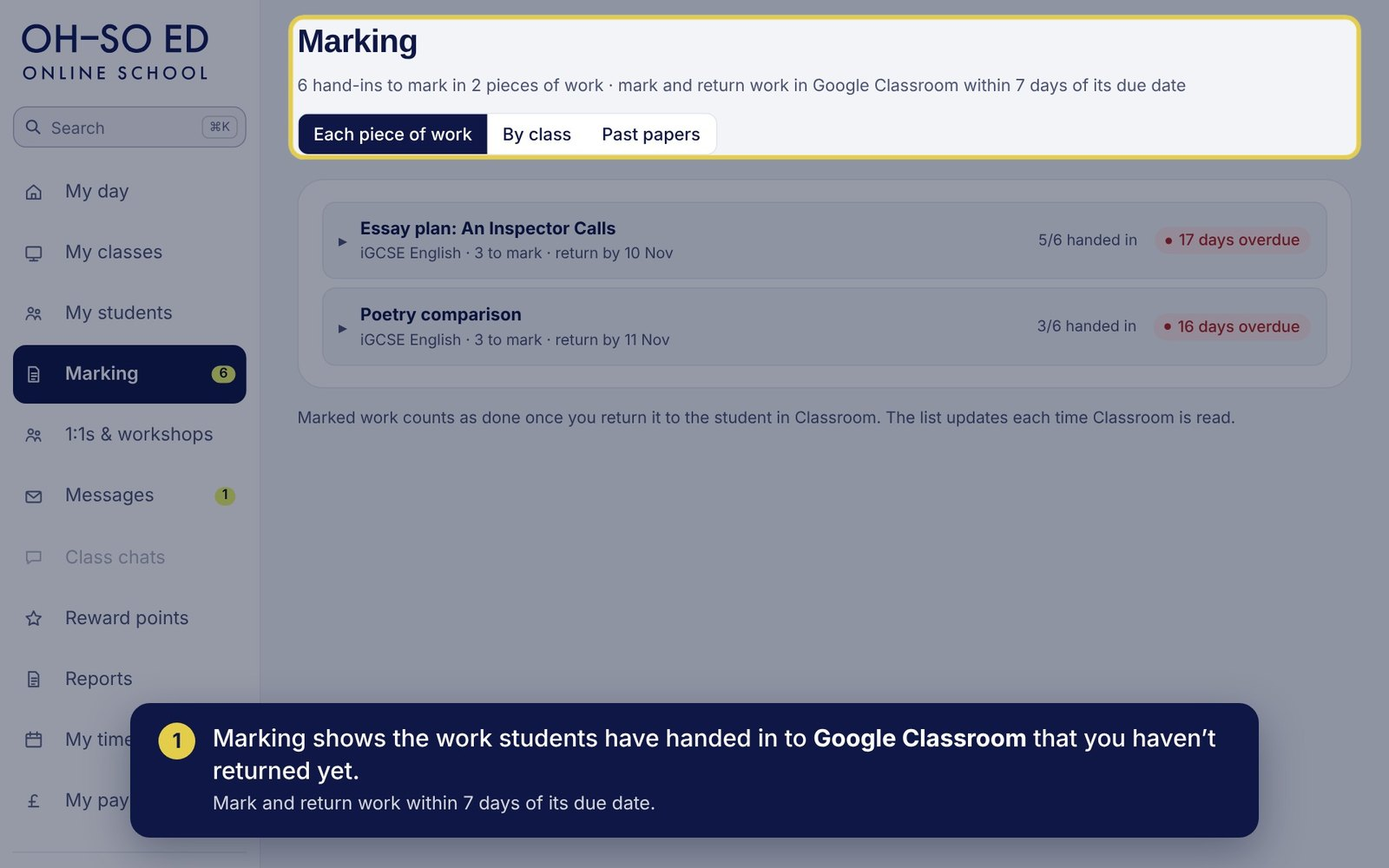
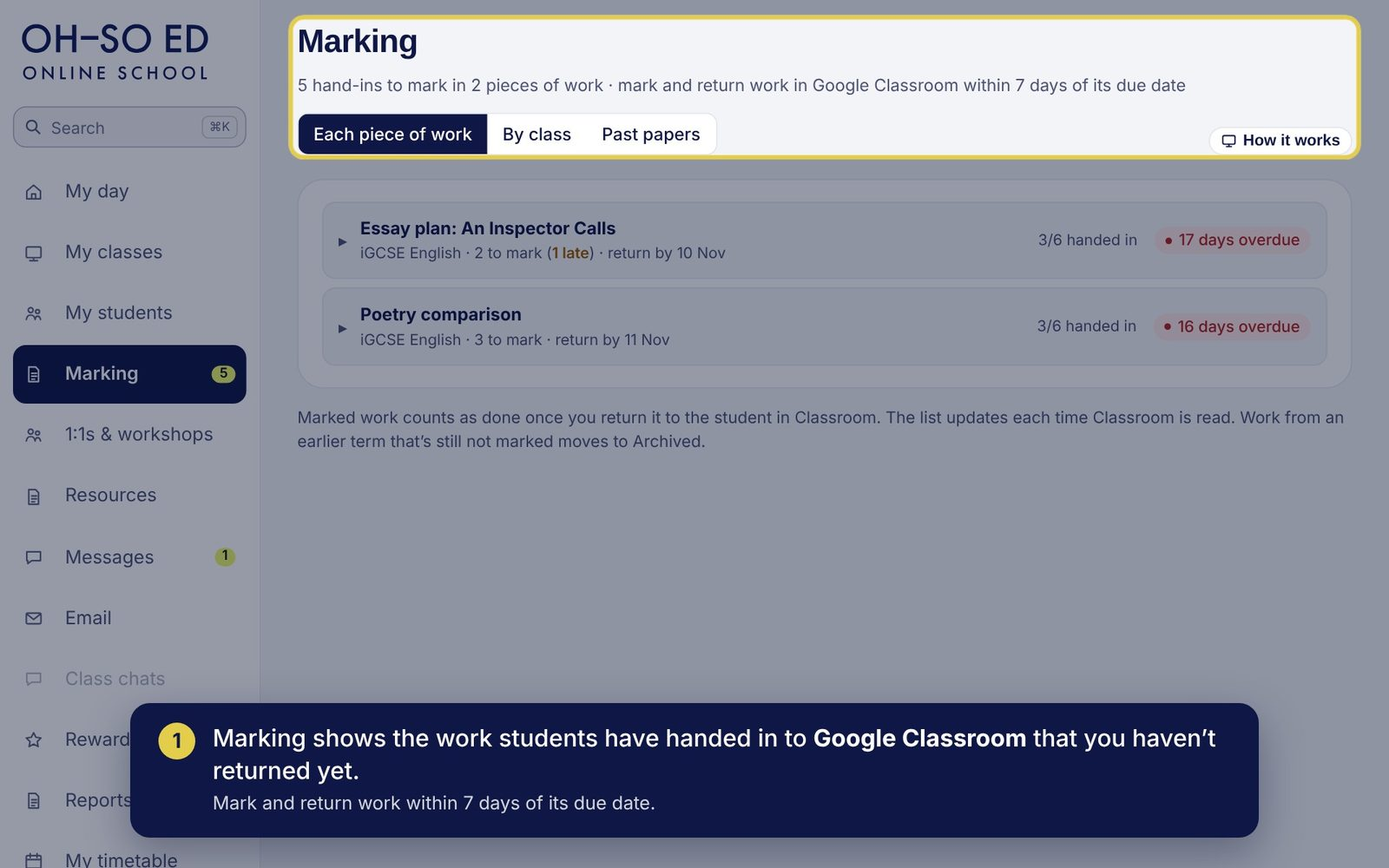
Update 520: introduction pages and How it works slides brought up to date
- /newdashboard: Messages and Email (speech bubble / envelope) for teachers and parents, the teacher's Resources (new section and screenshots), empty and sideways hand-ins in Marking, AI drafts in the teacher's own style, emails for work due, attendance and reward points
- How it works: Marking (nothing attached, photos the wrong way round), Messages and Email (also on the Email page), new Resources deck, parents' Messages (Email in the menu)

Claude-Session: https://claude.ai/code/session_019jwWYdrTturMMjiMEQw7Wv

diff --git a/src/app/(site)/newdashboard/content.ts b/src/app/(site)/newdashboard/content.ts
@@ -35,19 +35,22 @@ export const PAGES: Record<Role, Page> = {
         points: ["Search by name", "Filter to SEND, or to anyone under 85% attendance"] },
       { id: "marking", title: "Marking", shot: "marking", alt: "Marking: each piece of work handed in and waiting to be marked, with how many to mark, the return-by date and a countdown, opened to show the students who handed it in",
         text: "Everything your students have handed in that’s waiting to be marked, with a countdown to return it within 7 days of its due date.",
-        points: ["See each piece of work, most urgent first, or group them by class", "Open a piece of work to see who handed it in, who handed in late, who was sent back to redo it, and who hasn’t handed in", "Each student’s work opens straight in Google Classroom, where you mark and return it as you do now", "Not marking a piece? Resolve it and it leaves your list; unmarked work from an earlier term is archived automatically", "The menu shows how many hand-ins are waiting"] },
-      { id: "messages", title: "Messages", shot: "messages", alt: "Messages: conversations with the school office",
-        text: "Write to the school office (and, when the school switches it on, to the parents of the students you teach) in one place, and keep every conversation in a thread you can come back to.",
-        points: ["See which conversations are waiting for your reply", "An envelope or a speech bubble shows whether each message came by email or in the app", "Messages can come to your email too (your choice, in Settings)", "No personal email addresses or phone numbers are shared"] },
+        points: ["See each piece of work, most urgent first, or group them by class", "Open a piece of work to see who handed it in, who handed in late, who was sent back to redo it, and who hasn’t handed in", "Each student’s work opens straight in Google Classroom, where you mark and return it as you do now", "Handed in with nothing attached? It counts as missing, not as work to mark, and the student is emailed to hand it in again", "A photo of written work that’s the wrong way round is spotted too, and the student is asked to rotate it and hand it in again", "Not marking a piece? Resolve it and it leaves your list; unmarked work from an earlier term is archived automatically", "The menu shows how many hand-ins are waiting"] },
+      { id: "messages", title: "Messages and Email", nav: "Messages", shot: "messages", alt: "Messages: conversations with the school office and families, with a speech bubble in the menu, and Email below it with an envelope",
+        text: "Two places in the menu, each with its own count: Messages (the speech bubble) for conversations in the app with the office and, when the school switches it on, the parents of the students you teach; Email (the envelope) for emails between you and the school’s mailbox.",
+        points: ["Every conversation is kept in a thread you can come back to", "Unread ones are marked and sort to the top", "Messages can come to your email too (your choice, in Notifications)", "No personal email addresses or phone numbers are shared"] },
       { id: "reports", title: "Reports", shot: "reports", alt: "Reports to write: each class with how many comments are written, and a Write button",
         text: "The progress report comments, class by class, with how many you’ve written and when to submit them.",
-        points: ["Progress comes from Classroom marks; choose Effort (and, for GCSE, working and predicted grades)", "Each comment is 100–200 words (a count shows under it); Draft with AI writes a first draft that length from the student’s marks, attendance and earlier reports, for you to edit", "Write and save drafts any time; submit in the last week of term, once the assessment is marked (or say why there isn’t one)", "The office approves and publishes them to families"] },
+        points: ["Progress comes from Classroom marks; choose Effort (and, for GCSE, working and predicted grades)", "Each comment is 100–200 words (a count shows under it); Draft with AI writes a first draft that length from the student’s marks, attendance and earlier reports, in your own style for that subject (learnt from your earlier comments), for you to edit", "Write and save drafts any time; submit in the last week of term, once the assessment is marked (or say why there isn’t one)", "The office approves and publishes them to families"] },
       { id: "timetable", title: "My timetable", nav: "Timetable", shot: "timetable", alt: "My timetable: your lessons for the week by day and time",
         text: "Your week at a glance, with every lesson coming up for the next three weeks.",
         points: ["Coming up: your lessons for the next three weeks, each with Reschedule", "Lessons, 1:1s and workshops all go into your own calendar app too (Calendar sync)"] },
       { id: "ones", title: "1:1s and workshops", nav: "1:1s", shot: "ones", alt: "1:1s and workshops: booked 1:1s, your workshops, the hours parents can book you, and a form to suggest a workshop with suggested dates checked for clashes",
         text: "Your booked 1:1s and workshops, the hours parents can book you for 1:1s, and your ideas for new workshops.",
         points: ["Set the hours parents can book you for 1:1s; each 1:1 has its own Meet link in your Google Calendar and is logged as taught from Meet", "Suggest a workshop: a title, the subject, who it’s for, an overview and your slides (you can add them later)", "Suggest up to 3 dates: each is checked as you pick it, and warns you if you’re teaching then or if students at that level have a lesson", "Workshops are mostly for new families, so holidays, weekends and after school work well", "See what the office thinks, and when your idea is set up as a workshop"] },
+      { id: "resources", title: "Resources", shot: "resources", alt: "Resources: websites, things to watch and tips for your subjects, with a form to suggest a resource to the office",
+        text: "The ideas for learning at home that parents and students see, your own subjects first. Suggest your favourites and the office adds them for families.",
+        points: ["Suggest a website, something to watch or listen to, a book, or a tip with no link", "See when the office has added it, with any note from them", "Every subject has its own Resources link to share with a parent"] },
       { id: "change", title: "Reschedule a lesson", nav: "Reschedule", shot: "change", alt: "Reschedule a lesson: choose to move it or cancel it, pick a new date and time from the free times, give a reason and send it to the office",
         text: "If you can’t teach a lesson, press Reschedule (on My timetable or the lesson itself) to ask the office to move it or cancel it.",
         points: ["Choose a new date and time from a list of times that are free", "Free means no clash with your other lessons, 1:1s or workshops, any lesson in the same level group (KS3, Pre-GCSE or GCSE), or the students’ other lessons", "The office approves it, and the class’s families and students are emailed the change automatically", "The new lesson goes into everyone’s timetable and calendar, with its reminders, attendance and pay"] },
@@ -81,19 +84,19 @@ export const PAGES: Record<Role, Page> = {
         points: ["This week: every lesson for each child, day by day (and next week’s once this week is done)", "Your next payment and when it’s taken", "Each child’s classes, teachers and attendance this term"] },
       { id: "attendance", title: "Attendance", shot: "attendance", alt: "Attendance: each lesson for each child marked present, late, left early or absent",
         text: "Every lesson for each child: present, late, left early or absent, taken from the lesson’s Google Meet.",
-        points: ["Report an absence in advance; the teacher sees it, and it doesn’t count against attendance", "Approved absences are shown separately"] },
+        points: ["Report an absence in advance; the teacher sees it, and it doesn’t count against attendance", "Approved absences are shown separately", "We can also email you each week with how each child’s lessons went"] },
       { id: "assignments", title: "Assignments", shot: "assignments", alt: "Assignments: work set in each child’s classes, with due, overdue and submitted work and marks",
         text: "The work set in your children’s classes in Google Classroom: what’s due, what’s overdue, and what’s been handed in and marked.",
-        points: ["Switch between children", "Open a piece of work to see the teacher’s instructions and what’s attached, without needing your child’s Google account", "Marks show as soon as the teacher returns the work in Classroom; work sent back to redo is marked as such"] },
+        points: ["Switch between children", "Open a piece of work to see the teacher’s instructions and what’s attached, without needing your child’s Google account", "Marks show as soon as the teacher returns the work in Classroom; work sent back to redo is marked as such", "We can email you when work is due and if it’s overdue"] },
       { id: "payments", title: "Payments", shot: "payments", alt: "Payments: paid this year, still to pay, and each course’s termly payments",
         text: "What you’ve paid this year and what’s still to pay, with each course’s termly payments: paid in green, due in grey and late in red, each with its date.",
         points: ["Each course’s total for the whole course, including the second year of a 2-year course", "A payment history with each payment and its receipt", "Anything overdue is shown at the top, with what to do", "Swap or cancel a course from here"] },
       { id: "reports", title: "Reports", alt: "",
         text: "Each child’s termly progress reports from their teachers, kept together. We’ll email you when a new report is ready.",
         points: [] },
-      { id: "messages", title: "Messages", shot: "messages", alt: "Messages: start a conversation with the school office about one of your children",
-        text: "Write to us about any of your children and keep the whole conversation in one place.",
-        points: ["Our messages come to your email too, so you won’t miss them", "No need to search your inbox for old emails"] },
+      { id: "messages", title: "Messages and Email", nav: "Messages", shot: "messages", alt: "Messages: start a conversation with the school office about one of your children",
+        text: "Messages (the speech bubble) is where you write to us about any of your children and keep the whole conversation in one place. Email (the envelope) keeps every email we’ve sent you: reminders, work due, attendance, reward points and reports.",
+        points: ["Our messages come to your email too, so you won’t miss them", "No need to search your inbox for old emails", "Resources: ideas from the teachers for learning at home, for your children’s subjects"] },
       { id: "book", title: "Book a 1:1", shot: "book", alt: "Book a 1:1: choose a subject and teacher, then a time in the next two weeks",
         text: "Book a one-to-one lesson with your child’s teacher: choose the subject, then a time that suits you.",
         points: ["See your booked and past 1:1s", "Workshops are listed on the Workshops page"] },
@@ -126,13 +129,13 @@ export const PAGES: Record<Role, Page> = {
         points: [] },
       { id: "class", title: "Your classes", shot: "class", alt: "A class page: upcoming lessons, work with marks, your attendance and your classmates",
         text: "Each class has its own page: the lessons coming up, the work set in Google Classroom with your marks, your attendance and your classmates.",
-        points: ["Open a piece of work to go straight to it in Google Classroom"] },
+        points: ["Open a piece of work to go straight to it in Google Classroom", "If you hand in work with nothing attached, or a photo that’s the wrong way round, we’ll email you to hand it in again"] },
       { id: "chat", title: "Chat", shot: "chat", alt: "Chat: class chats organised into threads, and private chats with classmates",
         text: "A chat for each of your classes, organised into threads, e.g. “Quiz on Thursday”, so questions are easy to find.",
         points: ["Chat privately with classmates, if your parent has said yes", "Teachers and the office can see every chat, and you can report anything that worries you"] },
       { id: "rewards", title: "Rewards", shot: "rewards", alt: "Rewards: the school leaderboard and your points with the reason for each",
         text: "Your reward points this term and why your teachers gave them, plus the school leaderboard.",
-        points: ["The top 3 in the whole school win a prize at the end of each term"] },
+        points: ["The top 3 in the whole school win a prize at the end of each term", "You can get an email each time a teacher gives you points"] },
       { id: "more", title: "Messages, resources and your calendar", shot: "calendar", alt: "Calendar sync: add your lessons to your own calendar app with the Join link",
         text: "Messages from the school office, ideas from your teachers for learning alongside your lessons, and your lessons in your own calendar app with the Join link.",
         points: ["Works with Google Calendar, Apple Calendar and Outlook"] },

diff --git a/src/app/admin/guides.ts b/src/app/admin/guides.ts
@@ -22,12 +22,13 @@ export const DRIVE_SCHOOL_SLIDES = DRIVE_SCHOOL_ALT.map((alt, n) => ({ src: `/gu
 const deck = (name: string, alt: string[]) => alt.map((a, n) => ({ src: `/guides/${name}/${String(n + 1).padStart(2, "0")}.jpg`, alt: a }));
 export const TEACHER_GUIDES = {
   myday: { title: "My day: how it works", slides: deck("myday", ["My day: Everything for today’s teaching on one page", "Your next lesson is at the top, with a countdown. When it’s nearly time, a Join button opens the lesson’s Google Meet.", "Lesson slides opens the slides for that lesson, found by name in the class’s slides folder.", "The bell turns lesson alerts on this computer on or off. The cog next to it opens your notification settings.", "Today lists all of today’s lessons. Change asks the office to move or cancel one.", "Messages from the office (and families, when it’s switched on) show here. New message starts one.", "Reward points: give a student 1–10 points for great work, right from My day.", "When a report round is open, Reports shows how many you have left to write.", "The menu on the left takes you to every page. Hide it with the arrow at the bottom; My day then sits in the top right corner."]) },
-  marking: { title: "Marking: how it works", slides: deck("marking", ["Marking: Work handed in through Google Classroom, waiting for you", "Marking shows the work students have handed in to Google Classroom that you haven’t returned yet.", "See it by piece of work, by class, or the past papers your classes have done.", "Each piece shows the class, how many are to mark, how many have handed in, and the date to return it by.", "Mark it in Classroom as usual and press Return. Returned work drops off this list.", "Your marks also help your reports: the average of returned work suggests each student’s Progress band."]) },
-  messages: { title: "Messages: how they work", slides: deck("messages", ["Messages: Talk to the office, and to your students’ parents", "Press New message to start a conversation.", "Choose who it’s to: someone at the school, or everyone in the office at once.", "Use All, Unread, School and Families to filter your conversations.", "In Settings → Notifications, Send my messages to my email too emails you each new message.", "Families never see your email address, and you never see theirs."]) },
+  marking: { title: "Marking: how it works", slides: deck("marking", ["Marking: Work handed in through Google Classroom, waiting for you","Marking shows the work students have handed in to Google Classroom that you haven’t returned yet.","See it by piece of work, by class, or the past papers your classes have done.","Each piece shows the class, how many are to mark, how many have handed in, and the date to return it by.","Mark it in Classroom as usual and press Return. Returned work drops off this list.","Handed in with nothing attached? It counts as missing, not as work to mark. The student is emailed to hand it in again.","A photo of written work that’s sideways or upside down is spotted too. The student is asked to turn it and hand it in again.","Your marks also help your reports: the average of returned work suggests each student’s Progress band."]) },
+  messages: { title: "Messages and Email: how they work", slides: deck("messages", ["Messages and Email: Talk to the office, and to your students’ parents","Messages (the speech bubble) are conversations in the app. Email (the envelope) is for emails with the school’s mailbox. Each has its own count.","Press New message to start a conversation.","Choose who it’s to: the office, or a family.","Use All, Unread, Office and Families to filter your conversations. Unread ones sort to the top.","In Settings → Notifications, Send my messages to my email too emails you each new message.","Families never see your email address, and you never see theirs."]) },
   timetable: { title: "My timetable: moving or cancelling a lesson", slides: deck("timetable", ["My timetable: Your week, and how to move or cancel a lesson", "Your weekly timetable: every class, its level and how many students.", "Coming up lists your lessons for the next three weeks.", "Choose Move it to another time or Cancel it.", "Pick a new time from the list. You’re only offered times that don’t clash.", "Add a short reason and send it. The office approves it.", "Your calendar, My day and the families’ dashboards all update by themselves once it’s approved."]) },
   points: { title: "Reward points: how they work", slides: deck("points", ["Reward points: Say well done with 1 to 10 points", "Your classes and students are listed with the points they have this term.", "Choose how many points: +1 to +10.", "Add a short reason, or pick one: Great work, Homework on time, Helping others…", "Press Give.", "The top 3 students in the school each term win a gift. Points given in the holidays don’t count towards a term."]) },
   students: { title: "My students: how it works", slides: deck("students", ["My students: Everyone you teach, in one list", "All the students in your classes this year.", "Search by name, show only students with SEND or attendance under 85%, or pick one class.", "See each student’s classes, attendance, points, SEND, whether they’ve joined Classroom, and birthdays.", "SEND details show only where the parent agreed to share them with teachers.", "Treat everything here as private: it’s for planning your teaching, nothing else."]) },
   ones: { title: "1:1s and workshops: how they work", slides: deck("ones", ["1:1s and workshops: Your bookings, your 1:1 hours, and your workshop ideas", "Booked 1:1s are listed here, on My day and in your Google Calendar.", "Workshops you’re running show here with how many are booked.", "My 1:1 hours: the times parents can book you, except when you’re teaching.", "To add hours, choose a day, from and to, then press Add hours. Remove takes them away.", "Have an idea for a workshop? Press Suggest a workshop: a title, the subject and a short overview.", "Say who it’s for and suggest up to 3 dates. Each is checked as you pick it.", "Press Send to the office. Your idea appears under Your ideas, with what the office thinks.", "Google Meet’s log marks each 1:1 as taught, and it’s paid with your lessons."]) },
+  resources: { title: "Resources: how it works", slides: deck("resources", ["Resources: Ideas for learning at home, and suggesting your favourites", "The same Resources parents and students see, your subjects first. Other subjects shows the rest.", "Suggest a resource: the subject, what kind it is, a title, the link and why it’s useful. A Tip needs no link.", "Press Send to the office. Your suggestion shows here, with the office until they look at it. You can withdraw it until then.", "When the office adds it, you’ll see Added to Resources, and families see it on their dashboards."]) },
   // 27 Nov (Alfonso: "teachers need a Tips slide for their homepage ... who's bday it is or coming up, and tasters etc")
   tips: { title: "Tips for your lessons", slides: deck("tips", ["Tips for your lessons: Small things that make every student feel noticed", "Birthdays: when a student in your next lesson has a birthday within 3 days, it shows under the lesson. Wish them a happy birthday.", "Tasters: a new student is trying the class. Welcome them by name and introduce them to the class.", "Support needs (where parents agreed to share them) show here too. Plan for them before the lesson.", "Near the start time this button becomes Join. Join a few minutes early, with your school Google account.", "My students lists everyone’s birthday and support needs, for all your classes.", "Give reward points during or straight after the lesson, with a reason.", "Say their names, notice effort, and end each lesson with what’s coming next."]) },
   calendar: { title: "Calendar sync: how it works", slides: deck("calendar", ["Calendar sync: Your lessons in your own calendar app", "Add the OH-SO ED calendar once and your lessons, 1:1s, workshops and holidays appear in your own calendar.", "Press Google Calendar or Apple Calendar or Outlook.", "Buttons not working? Copy the calendar address and add it by hand: the steps for each app are below it.", "Shared the address by mistake? Make a new address: the old one stops working.", "Each lesson in your calendar has its Meet link and register."]) },
@@ -40,7 +41,7 @@ export const FAMILY_GUIDES = {
   "p-attendance": { title: "Attendance: how it works", slides: deck("p-attendance", ["Attendance: How lessons are going, and telling us about absences","Each child’s attendance this term, lesson by lesson.","Missing a lesson? Report an absence: tick the lessons and give a reason.","Attendance is taken from Google Meet, so your child should join with their school account."]) },
   "p-assignments": { title: "Assignments: how it works", slides: deck("p-assignments", ["Assignments: The work set in your children’s classes","Pick a child, then Due, Overdue or Submitted.","Each piece shows the class, whether it was handed in, and the mark once it’s returned.","Open one to read the teacher’s post: the instructions and any files.","Your child hands work in through Google Classroom with their school account."]) },
   "p-payments": { title: "Payments: how it works", slides: deck("p-payments", ["Payments: What you’ve paid, and what’s coming","If a payment didn’t go through, it shows in Overdue, with what it was for.","Paid this year and still to pay, at a glance.","Each child’s courses, term by term. The coloured tabs show the date: paid, due or late.","Payment history lists every payment with its date, and a Receipt for each.","Need to change a course? Swap or cancel a course is at the bottom of the page.","Payments are taken automatically from your saved card or by Direct Debit. We email you a few days before each one."]) },
-  "p-messages": { title: "Messages: how it works", slides: deck("p-messages", ["Messages: Talk to your children’s teachers and the office","Press New message to start a conversation.","Choose a class to write to its teacher, or write to the office.","You’re emailed when someone replies, and you can reply to that email."]) },
+  "p-messages": { title: "Messages: how it works", slides: deck("p-messages", ["Messages: Talk to your children’s teachers and the office","Press New message to start a conversation.","Choose a class to write to its teacher, or write to the office.","Messages (the speech bubble) are your conversations. Email (the envelope) keeps every email we’ve sent you: reminders, work due, attendance, reward points and reports.","You’re emailed when someone replies, and you can reply to that email."]) },
   "p-book": { title: "Booking a 1:1: how it works", slides: deck("p-book", ["Book a 1:1: One-to-one lessons with our teachers","Choose the child and subject.","Pick a time in the next two weeks, then book and pay.","Your 1:1s lists what you’ve booked, with the Google Meet link.","Your child joins from their dashboard or the Meet link with their school account."]) },
   "s-home": { title: "Home: how it works", slides: deck("s-home", ["Home: Your lessons, work and points in one place","Your next lesson is at the top. When it’s time, press Join to open Google Meet.","Your reward points this term, and where you are in the school.","This week lists all your lessons.","Your classes are in the menu, with Chat, Messages and Rewards.","Join lessons with your school Google account, so your attendance is counted."]) },
   "s-class": { title: "Your class page: how it works", slides: deck("s-class", ["Your class: Everything for one subject","Coming up: your next lessons.","Work: what’s been set, when it’s due, and your mark once it’s returned.","Your attendance for each lesson this term.","The Join button at the top opens the class’s Google Meet."]) },

diff --git a/src/app/(family)/ResourcesView.tsx b/src/app/(family)/ResourcesView.tsx
@@ -7,13 +7,13 @@ import { Head } from "./fmt";
 // Resources on the parent and student dashboards (21 Nov): the website's Resources (Admin → Website → Resources),
 // opening on the subjects of the courses the family is booked on, with an "Other subjects" tab for the rest.
 // 27 Nov: teachers see the same page (their own subjects first), with their suggestion form and suggestions in `children`.
-export async function ResourcesView({ base, tab, courses, forParent, teacher, children }: { base: string; tab?: string; courses: CourseRef[]; forParent: boolean; teacher?: boolean; children?: React.ReactNode }) {
+export async function ResourcesView({ base, tab, courses, forParent, teacher, tools, children }: { base: string; tab?: string; courses: CourseRef[]; forParent: boolean; teacher?: boolean; tools?: React.ReactNode; children?: React.ReactNode }) {
   const [list, site] = await Promise.all([getResources(), siteInfo()]);
   const { mine, others } = resourcesForCourses(list, courses);
   const showOthers = tab === "others";
   const groups = showOthers ? others : mine;
   return <>
-    <Head title="Resources" sub={teacher ? "The ideas for learning at home that parents and students see on their dashboards and the website. Suggest your favourites for your subjects and the office will add them." : forParent ? "Ideas from the teachers for learning at home alongside lessons: things to watch, read and explore." : "Ideas from your teachers for learning alongside your lessons: things to watch, read and explore."} />
+    <Head title="Resources" sub={teacher ? "The ideas for learning at home that parents and students see on their dashboards and the website. Suggest your favourites for your subjects and the office will add them." : forParent ? "Ideas from the teachers for learning at home alongside lessons: things to watch, read and explore." : "Ideas from your teachers for learning alongside your lessons: things to watch, read and explore."} >{tools}</Head>
     <nav className="tabs rs-tabs" aria-label="Which subjects">
       <Link href={base} aria-current={!showOthers ? "page" : undefined} className={`abtn sm${!showOthers ? " pri" : ""}`}>{teacher ? "Your subjects" : forParent ? "Your children’s subjects" : "Your subjects"}</Link>
       {others.length > 0 && <Link href={`${base}?tab=others`} aria-current={showOthers ? "page" : undefined} className={`abtn sm${showOthers ? " pri" : ""}`}>Other subjects</Link>}

diff --git a/src/app/admin/(staff)/teacher/resources/page.tsx b/src/app/admin/(staff)/teacher/resources/page.tsx
@@ -4,6 +4,8 @@ import { withSchool } from "@/lib/db";
 import { ResourcesView } from "@/app/(family)/ResourcesView";
 import { suggestResourceAction, withdrawSuggestionAction } from "../../../actions";
 import { dm } from "../fmt";
+import { GuideSlides } from "../../../GuideSlides";
+import { TEACHER_GUIDES } from "../../../guides";
 
 export const dynamic = "force-dynamic";
 
@@ -17,7 +19,7 @@ export default async function TeacherResources({ searchParams }: { searchParams:
   const courses = mine.map((s) => ({ subject: s, level: "" }));
   const others = all.map((s) => s.name).filter((s) => !mine.includes(s));
   const open = !!sp.err || sugg.length === 0;
-  return <ResourcesView base="/admin/teacher/resources" tab={sp.tab} courses={courses} forParent={false} teacher>
+  return <ResourcesView base="/admin/teacher/resources" tab={sp.tab} courses={courses} forParent={false} teacher tools={<GuideSlides slides={TEACHER_GUIDES.resources.slides} title={TEACHER_GUIDES.resources.title} label="How it works" />}>
     {sp.ok && <p className="note msg">{sp.ok}</p>}{sp.err && <p className="note msg bad">{sp.err}</p>}
     <section className="card rs-suggest" id="suggest">
       <details open={open}><summary><h2>Suggest a resource</h2><span className="abtn sm pri" aria-hidden="true">Suggest one</span></summary>

diff --git a/src/app/admin/(staff)/teacher/messages/TeacherInbox.tsx b/src/app/admin/(staff)/teacher/messages/TeacherInbox.tsx
@@ -128,7 +128,7 @@ export async function TeacherInbox({ mode, searchParams }: { mode: InboxMode; se
 
   return <>
     <div className="top"><div><h1>{mode === "email" ? "Email" : "Messages"}</h1><div className="sub">{mode === "email" ? "Your emails with the school: they come and go by email too." : "Messages in the app: from the office, and with the parents of the students you teach."}</div></div>
-      <span className="grow" />{mode === "messages" && <GuideSlides slides={TEACHER_GUIDES.messages.slides} title={TEACHER_GUIDES.messages.title} />}<Link className="abtn pri" href={`${base}?new=1`}>{mode === "email" ? "New email" : "New message"}</Link></div>
+      <span className="grow" /><GuideSlides slides={TEACHER_GUIDES.messages.slides} title={TEACHER_GUIDES.messages.title} /><Link className="abtn pri" href={`${base}?new=1`}>{mode === "email" ? "New email" : "New message"}</Link></div>
     {sp.ok && <p className="note msg">{sp.ok}</p>}{sp.err && <p className="note msg bad">{sp.err}</p>}
     {!me.viewing && <NavCountSync href={base} count={unreadN} />}<LiveMessages stamp={await messagesStamp()} />
     <div className={`card ib${chosen ? " has-sel" : ""}`}>
